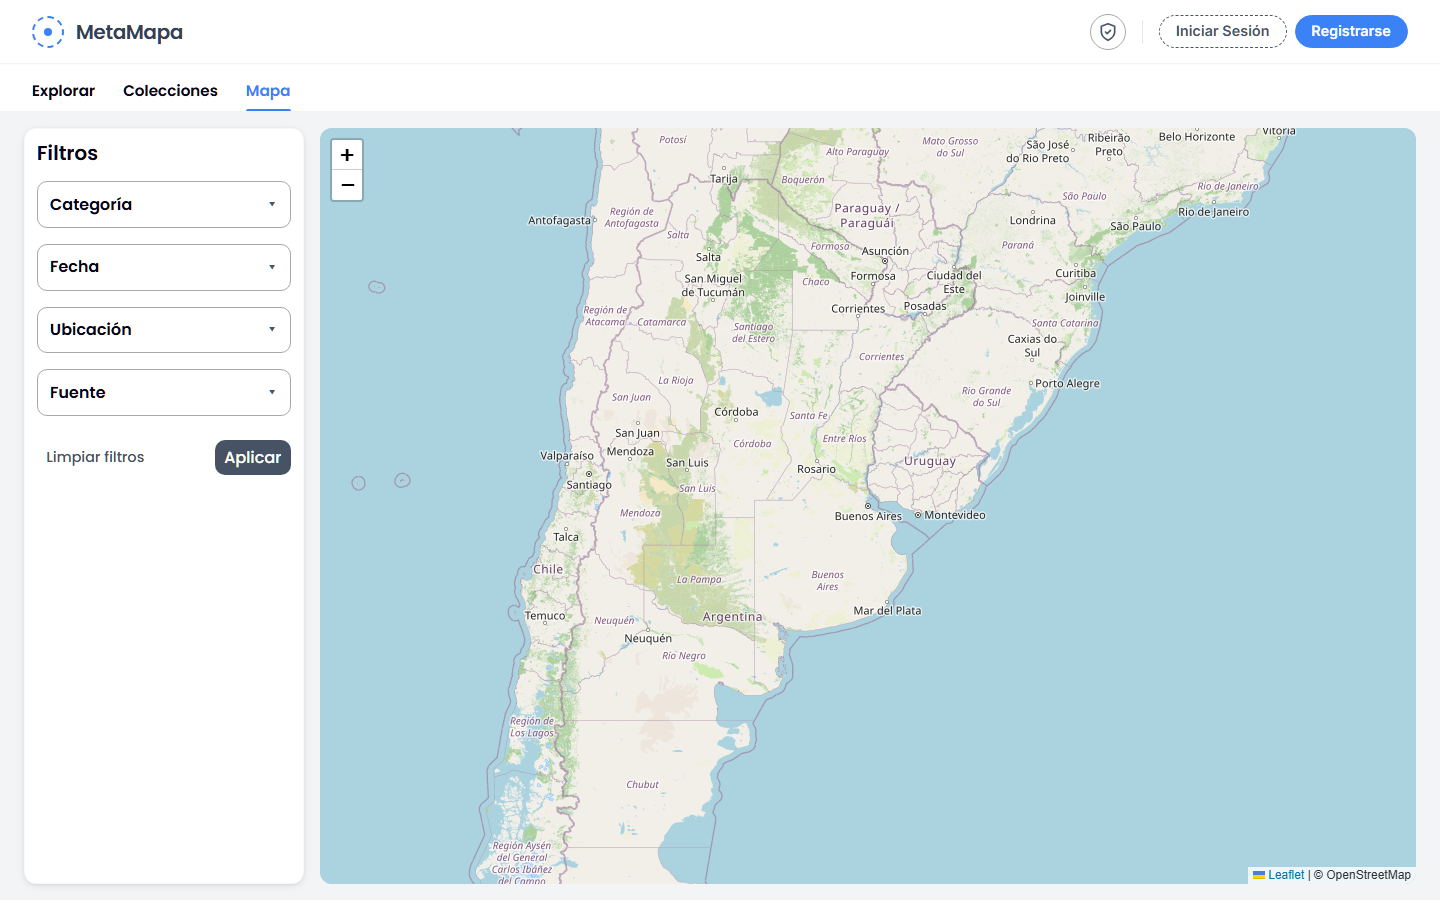
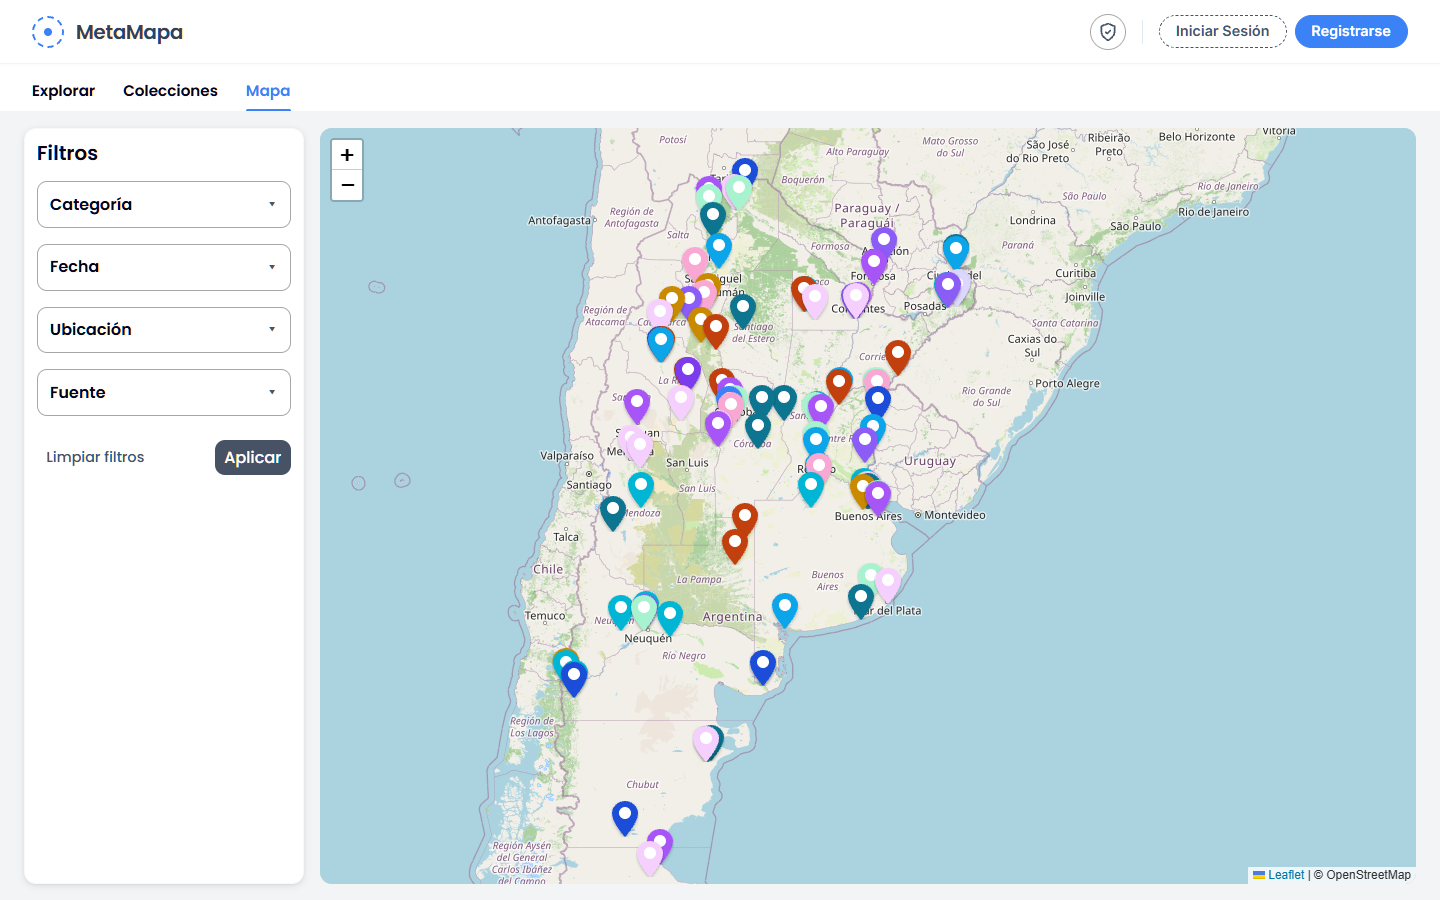
docs: refresh screenshots with sample data and add the moderation view

diff --git a/README.md b/README.md
@@ -94,11 +94,13 @@ Step-by-step guide, including how to generate the JWT keys and create an admin u
 
 ## Screenshots
 
-Taken from a local run with an empty database (the UI is in Spanish).
+Taken from a local run with the static source's sample dataset (1,000 events, normalized through GeoRef) and a few citizen submissions. The UI is in Spanish.
 
-| Landing page | Map view with filters |
+| Map view with filters | Events feed with normalized locations |
 |---|---|
-| ![Landing page](docs/images/landing.png) | ![Map view](docs/images/map.png) |
+| ![Map view](docs/images/map.png) | ![Events feed](docs/images/explore.png) |
+
+More: [admin panel, moderation queue](docs/images/admin-pending.png) · [collections](docs/images/collections.png) · [landing page](docs/images/landing.png)
 
 ## Testing
 
